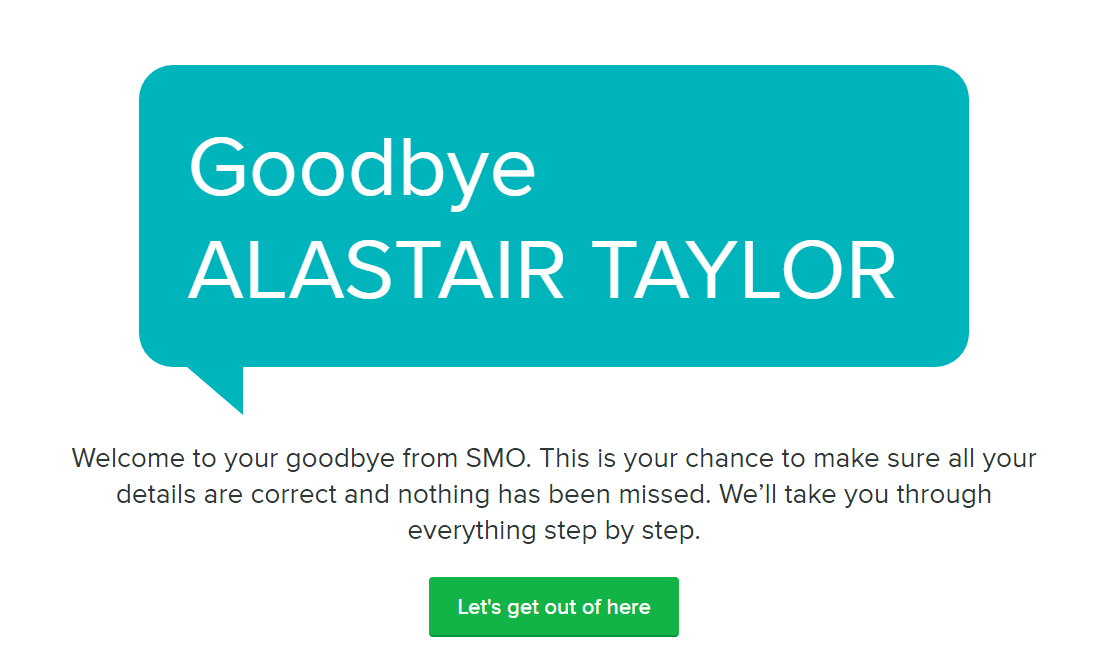
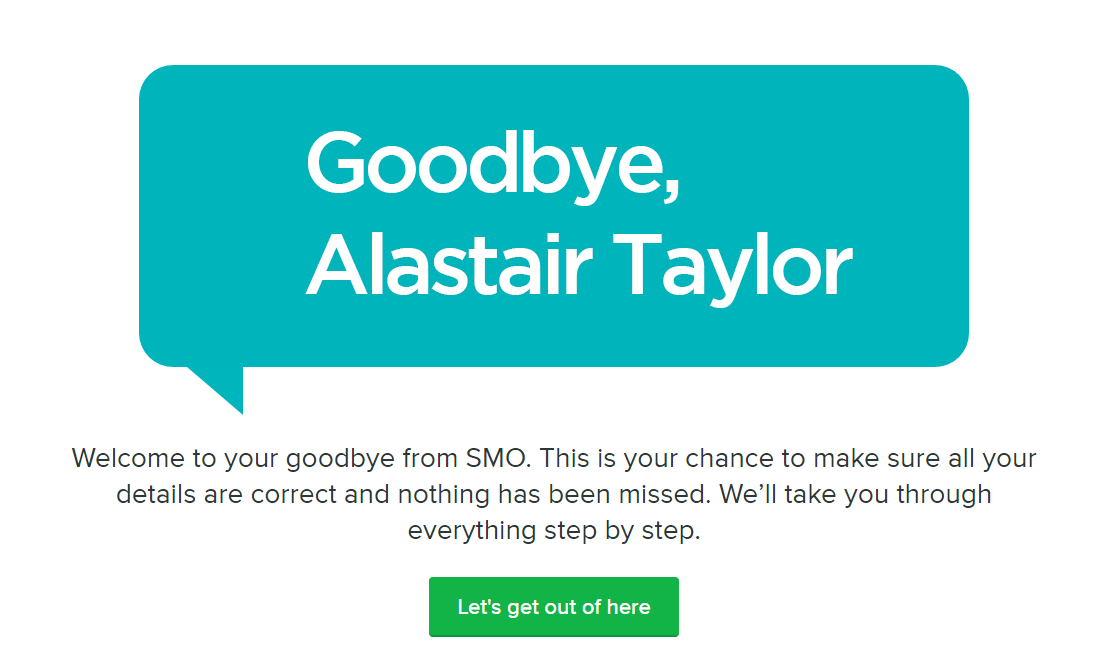
Wonderful world of Ben's commits: Needs more Comic Sans.

Changed region(s): [[0.155, 0.3364, 0.8368, 0.4893], [0.155, 0.1835, 0.6199, 0.3364]]

diff --git a/styles/stylez.css b/styles/stylez.css
@@ -26,6 +26,14 @@ body {
   100% { transform: rotate(0deg); }
 }
 
+html, body {
+  font-family: 'Comic Sans MS', cursive;
+}
+
+#smo {
+  font-family: 'Verdana' sans-serif;
+}
+
 .baws {
   position: fixed;
   bottom: 0;
